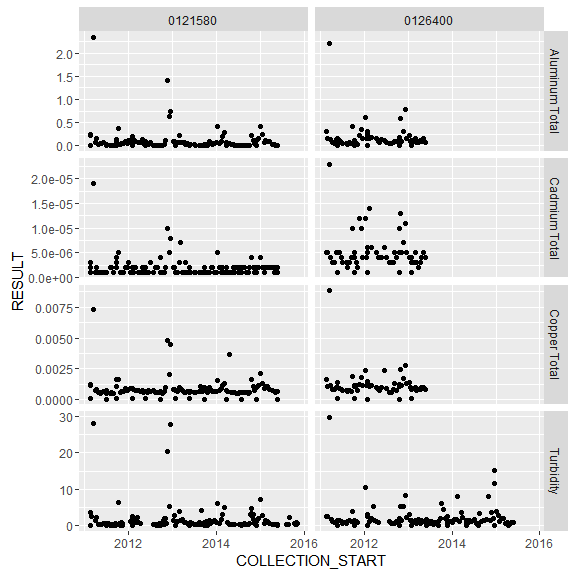
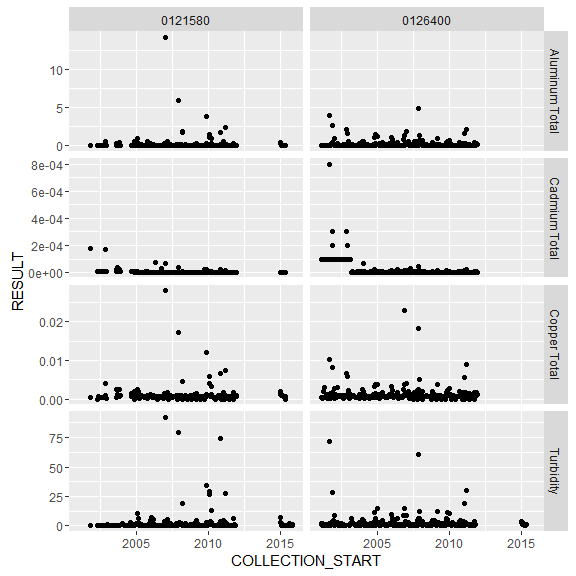
Udpate README

diff --git a/README.md b/README.md
@@ -24,7 +24,7 @@ install_github("bcgov/rems")
 
 ### Usage
 
-You can use the `get_ems_data()` function to get current (last two years), or historic data:
+You can use the `get_ems_data()` function to get current (last two years) of data:
 
 ``` r
 library(rems)
@@ -34,19 +34,19 @@ current <- get_ems_data("current")
 #> Caching data on disk...
 #> Loading data...
 nrow(current)
-#> [1] 871925
+#> [1] 940343
 head(current)
-#> # A tibble: 6 x 17
-#>    EMS_ID          MONITORING_LOCATION LATITUDE LONGITUDE
-#>     <chr>                        <chr>    <dbl>     <dbl>
-#> 1 0121580 ENGLISHMAN R. AT HIGHWAY 19A  49.3011 -124.2756
-#> 2 0121580 ENGLISHMAN R. AT HIGHWAY 19A  49.3011 -124.2756
-#> 3 0121580 ENGLISHMAN R. AT HIGHWAY 19A  49.3011 -124.2756
-#> 4 0121580 ENGLISHMAN R. AT HIGHWAY 19A  49.3011 -124.2756
-#> 5 0121580 ENGLISHMAN R. AT HIGHWAY 19A  49.3011 -124.2756
-#> 6 0121580 ENGLISHMAN R. AT HIGHWAY 19A  49.3011 -124.2756
+#> # A tibble: 6 × 17
+#>    EMS_ID          MONITORING_LOCATION LONGITUDE LATITUDE
+#>     <chr>                        <chr>     <dbl>    <dbl>
+#> 1 0121580 ENGLISHMAN R. AT HIGHWAY 19A -124.2756  49.3011
+#> 2 0121580 ENGLISHMAN R. AT HIGHWAY 19A -124.2756  49.3011
+#> 3 0121580 ENGLISHMAN R. AT HIGHWAY 19A -124.2756  49.3011
+#> 4 0121580 ENGLISHMAN R. AT HIGHWAY 19A -124.2756  49.3011
+#> 5 0121580 ENGLISHMAN R. AT HIGHWAY 19A -124.2756  49.3011
+#> 6 0121580 ENGLISHMAN R. AT HIGHWAY 19A -124.2756  49.3011
 #> # ... with 13 more variables: LOCATION_TYPE <chr>,
-#> #   COLLECTION_START <time>, PARAMETER_CODE <chr>, PARAMETER <chr>,
+#> #   COLLECTION_START <dttm>, PARAMETER_CODE <chr>, PARAMETER <chr>,
 #> #   ANALYTICAL_METHOD_CODE <chr>, ANALYTICAL_METHOD <chr>,
 #> #   RESULT_LETTER <chr>, RESULT <dbl>, UNIT <chr>,
 #> #   METHOD_DETECTION_LIMIT <dbl>, QA_INDEX_CODE <chr>, UPPER_DEPTH <dbl>,
@@ -55,49 +55,48 @@ head(current)
 
 By default, `get_ems_data` imports only a subset of columns that are useful for water quality analysis. This is controlled by the `cols` argumnet, which has a default value of `"wq"`. This can be set to `"all"` to download all of the columns, or a character vector of column names (see `?get_ems_data` for details).
 
-Get historic data, but constrain how much to import as the full record is over 10 million rows.
+You can filter the data to just get the records you want:
 
 ``` r
-historic <- get_ems_data("historic", n = 1e6)
-#> Downloading latest 'historic' EMS data from BC Data Catalogue (url:https://pub.data.gov.bc.ca/datasets/949f2233-9612-4b06-92a9-903e817da659/ems_sample_results_historic_expanded.zip)
-#> Reading data from file...
-#> Caching data on disk...
-#> Loading data...
-nrow(historic)
-#> [1] 1000000
+filtered_current <- filter_ems_data(current, emsid = c("0121580", "0126400"), 
+                                 parameter = c("Aluminum Total", "Cadmium Total", 
+                                               "Copper Total", " Zinc Total", 
+                                               "Turbidity"),
+                                 from_date = "2011/02/06", 
+                                 to_date = "2015/12/31")
 ```
 
-If you decide you want to download more (lets get all the records now), you can add `force = TRUE`:
+You can also get the entire historic dataset, which has records back to 1964. This needs to be done in two steps:
+
+1.  First download the dataset using `download_historic_data`, which downloads the data and stores it in a `sqlite` database:
 
 ``` r
-historic <- get_ems_data("historic", force = TRUE)
+download_historic_data()
+#> This is going to take a while...
 #> Downloading latest 'historic' EMS data from BC Data Catalogue (url:https://pub.data.gov.bc.ca/datasets/949f2233-9612-4b06-92a9-903e817da659/ems_sample_results_historic_expanded.zip)
-#> Reading data from file...
-#> Caching data on disk...
-#> Loading data...
-nrow(historic)
-#> [1] 10518573
+#> Saving historic data at C:\Users\ateucher\AppData\Local\rems\rems/ems.sqlite
+#> |==========| 100%
+#> Successfully downloaded and stored the historic EMS data.
+#> You can access it with the 'read_historic_data' function
+```
+
+2.  Next, read in the historic data, supplying constraints to only import the records you want:
+
+``` r
+filtered_historic <- read_historic_data(emsid = c("0121580", "0126400"),
+                               parameter = c("Aluminum Total", "Cadmium Total",
+                                             "Copper Total", " Zinc Total",
+                                             "Turbidity"),
+                               from_date = "2001/02/05",
+                               to_date = "2011/12/31")
 ```
 
 You can combine the previously imported historic and current data sets using `bind_ems_data`:
 
 ``` r
-all_data <- bind_ems_data(current, historic)
+all_data <- bind_ems_data(filtered_current, filtered_historic)
 nrow(all_data)
-#> [1] 11390498
-```
-
-And you can do very basic filtering it on ems id and start / end dates:
-
-``` r
-filtered_data <- filter_ems_data(all_data, emsid = c("0121580", "0126400"), 
-                                 parameter = c("Aluminum Total", "Cadmium Total", 
-                                               "Copper Total", " Zinc Total", 
-                                               "Turbidity"),
-                                 from_date = "2011/02/05", 
-                                 to_date = "2015/12/31")
-nrow(filtered_data)
-#> [1] 869
+#> [1] 2553
 ```
 
 For more advanced filtering, selecting, and summarizing, I recommend using the `dplyr` package.
@@ -107,14 +106,14 @@ Then you can plot your data with ggplot2:
 ``` r
 library(ggplot2)
 
-ggplot(filtered_data, aes(x = COLLECTION_START, y = RESULT)) + 
+ggplot(all_data, aes(x = COLLECTION_START, y = RESULT)) + 
   geom_point() + 
   facet_grid(PARAMETER ~ EMS_ID, scales = "free_y")
 ```
 
 ![](fig/README-unnamed-chunk-9-1.png)
 
-When the data are downloaded from the BC Data Catalogue, they are cached so that you don't have to download it every time you want to use it. If there is newer data available in the Catalogue, you will be prompted the next time you use `get_ems_data`.
+When the data are downloaded from the BC Data Catalogue, they are cached so that you don't have to download it every time you want to use it. If there is newer data available in the Catalogue, you will be prompted the next time you use `get_ems_data` or `download_historic_data`.
 
 If you want to remove the cached data, use the function `remove_data_cache`. You can remove all the data, just the historic, or just the current:
 
